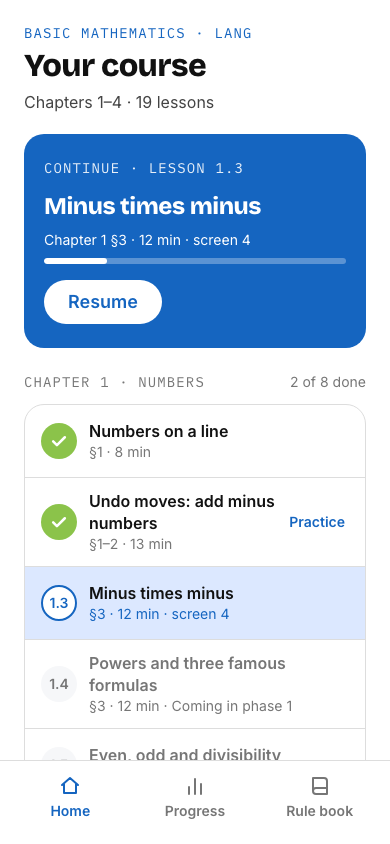
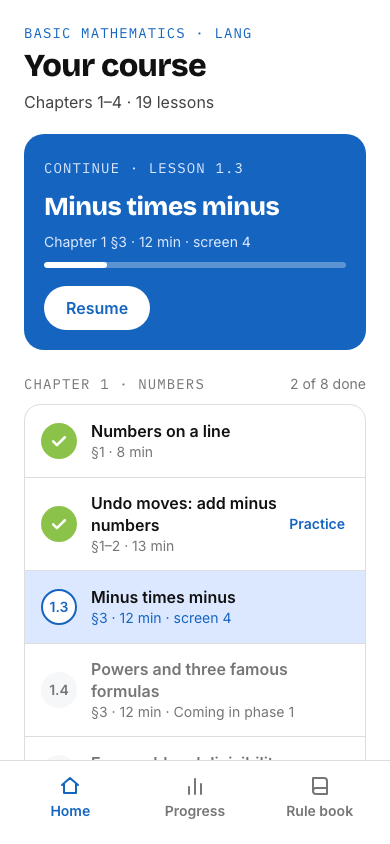
phase-1B: match measured FigCraft values on Home, Progress, Rule book
Radii, padding, gaps and type sizes read with get_node from H01-H03 and DH1-DH3.
diff.md rewritten with the measured results.

diff --git a/src/routes/app.module.css b/src/routes/app.module.css
@@ -21,12 +21,12 @@
   display: flex;
   flex-direction: column;
   border: 1.5px solid var(--color-line);
-  border-radius: var(--radius-lg);
+  border-radius: 16px;
   background: var(--color-paper);
   overflow: hidden;
 }
 .cardPad {
-  padding: 16px 20px;
+  padding: 16px;
   gap: var(--spacing-3);
 }
 .cardHead {
@@ -53,8 +53,8 @@
 .continue {
   display: flex;
   flex-direction: column;
-  gap: var(--spacing-2);
-  padding: 20px 20px 24px;
+  gap: 10px;
+  padding: 20px;
   border-radius: var(--radius-lg);
   background: var(--color-primary);
   color: #fff;
@@ -63,18 +63,19 @@
   font-family: var(--font-label);
   font-size: var(--text-caption);
   letter-spacing: var(--tracking-label);
-  opacity: 0.9;
+  color: var(--tint-primary);
 }
 .continueTitle {
   font-family: var(--font-display);
-  font-size: var(--text-h3);
-  line-height: 32px;
+  font-size: 26px;
+  line-height: 30px;
   font-weight: var(--font-weight-display);
   letter-spacing: var(--tracking-tight);
 }
 .continueMeta {
   font-size: var(--text-caption);
   line-height: 20px;
+  color: var(--tint-primary);
 }
 .track {
   height: 6px;
@@ -91,11 +92,11 @@
   align-self: flex-start;
   margin-top: var(--spacing-2);
   min-height: 44px;
-  padding: 12px 24px;
+  padding: 12px 22px;
   border-radius: var(--radius-pill);
   background: #fff;
   color: var(--color-primary);
-  font-size: var(--text-body);
+  font-size: var(--text-small);
   font-weight: var(--font-weight-semibold);
   line-height: 20px;
   text-decoration: none;
@@ -125,10 +126,10 @@
   display: flex;
   flex: 1;
   align-items: center;
-  gap: var(--spacing-3);
+  gap: 14px;
   min-width: 0;
   min-height: 72px;
-  padding: 12px 0 12px 16px;
+  padding: 14px 0 14px 16px;
   color: inherit;
   text-decoration: none;
 }
@@ -205,20 +206,21 @@
 .tiles {
   display: grid;
   grid-template-columns: 1fr 1fr;
-  gap: var(--spacing-3);
+  gap: 10px;
 }
 .tile {
   display: flex;
   flex-direction: column;
   gap: 2px;
-  padding: 16px;
-  border-radius: var(--radius-md);
+  padding: 14px 16px;
+  border-radius: 16px;
   background: var(--color-surface);
 }
 .tileValue {
   font-family: var(--font-display);
-  font-size: 28px;
-  line-height: 32px;
+  font-size: 30px;
+  line-height: 36px;
+  letter-spacing: var(--tracking-tight);
   font-weight: var(--font-weight-display);
 }
 .tileUnit {
@@ -289,12 +291,13 @@
   align-items: center;
   justify-content: center;
   min-width: 44px;
-  min-height: 44px;
-  padding: 0 20px;
+  min-height: 44px; /* frame: 40; NFR-02 asks 44 */
+  padding: 10px 14px;
+  font-size: var(--text-caption);
+  line-height: 20px;
   border-radius: var(--radius-pill);
   background: var(--tint-primary);
   color: var(--color-primary);
-  font-size: var(--text-small);
   font-weight: var(--font-weight-semibold);
   text-decoration: none;
 }
@@ -302,19 +305,25 @@
   display: flex;
   flex-direction: column;
   gap: 6px;
-  padding: 10px 0;
-  border-top: 1px solid var(--color-line);
 }
-.chapterRow:first-of-type {
-  border-top: 0;
+.chapterRows {
+  display: flex;
+  flex-direction: column;
+  gap: 14px;
 }
 .chapterLine {
   display: flex;
   justify-content: space-between;
-  font-size: var(--text-small);
-}
-.chapterLine strong {
+  font-size: 15px;
+  line-height: 20px;
   font-weight: var(--font-weight-semibold);
+  color: var(--color-ink-soft);
+}
+.chapterRow[data-started="true"] .chapterLine {
+  color: var(--color-ink);
+}
+.chapterLine .meta {
+  font-weight: var(--font-weight-regular);
 }
 .trackDark {
   height: 6px;
@@ -348,6 +357,10 @@
   .cols {
     flex-direction: row;
     align-items: flex-start;
+    gap: 32px;
+  }
+  .col {
+    gap: 24px;
   }
   .cols > .col {
     flex: 1;
@@ -375,7 +388,7 @@
     grid-template-columns: 1fr 1fr;
     grid-template-rows: auto auto 1fr;
     align-items: start;
-    gap: 20px 24px;
+    gap: 24px 32px;
   }
   .gTiles {
     grid-column: 1;

diff --git a/src/routes/RuleBook.module.css b/src/routes/RuleBook.module.css
@@ -8,12 +8,14 @@
 }
 .chip {
   flex: 0 0 auto;
-  min-height: 44px;
-  padding: 0 16px;
+  min-height: 44px; /* frame: 40; NFR-02 asks 44 */
+  padding: 10px 14px;
   border: 1.5px solid var(--color-line);
   border-radius: var(--radius-pill);
   background: var(--color-paper);
-  font-size: var(--text-small);
+  color: var(--color-ink-soft);
+  font-size: var(--text-caption);
+  line-height: 20px;
   font-weight: var(--font-weight-semibold);
   white-space: nowrap;
   cursor: pointer;
@@ -37,7 +39,7 @@
   gap: var(--spacing-2);
   padding: 16px;
   border: 1.5px solid var(--color-line);
-  border-radius: var(--radius-lg);
+  border-radius: 16px;
   background: var(--color-paper);
 }
 .head {
@@ -47,7 +49,7 @@
 }
 .id {
   flex: 0 0 auto;
-  padding: 2px 10px;
+  padding: 3px 8px;
   border-radius: var(--radius-sm);
   background: var(--tint-rule);
   color: var(--color-rule);
@@ -62,8 +64,8 @@
   font-weight: var(--font-weight-semibold);
 }
 .statement {
-  font-size: 20px;
-  line-height: 32px;
+  font-size: 21px;
+  line-height: 28px;
   overflow-x: auto;
 }
 .foot {

diff --git a/src/routes/Progress.tsx b/src/routes/Progress.tsx
@@ -140,15 +140,15 @@ export function Progress() {
         <div className={styles.gChapter}>
           <section className={`${styles.card} ${styles.cardPad}`} aria-label="By chapter">
             <p className={styles.eyebrow}>By chapter</p>
-            <div>
+            <div className={styles.chapterRows}>
               {[1, 2, 3, 4].map((c) => {
                 const ls = lessonsOfChapter(c);
                 const done = ls.filter((l) => data.lessons[l.id]?.state === "complete").length;
                 return (
-                  <div key={c} className={styles.chapterRow}>
+                  <div key={c} className={styles.chapterRow} data-started={done > 0}>
                     <div className={styles.chapterLine}>
                       <span>
-                        <strong>{c}</strong> · {CHAPTER_TITLES[c]}
+                        {c} · {CHAPTER_TITLES[c]}
                       </span>
                       <span className={styles.meta}>
                         {done} of {ls.length} lessons

diff --git a/src/routes/Home.tsx b/src/routes/Home.tsx
@@ -138,7 +138,7 @@ function ChapterList({
   const lessons = lessonsOfChapter(chapter);
   const done = lessons.filter((l) => data.lessons[l.id]?.state === "complete").length;
   return (
-    <section aria-label={`Chapter ${chapter}`} className={styles.col} style={{ gap: 12 }}>
+    <section aria-label={`Chapter ${chapter}`} className={styles.col} style={{ gap: 10 }}>
       <div className={styles.chapterHead}>
         <p className={styles.eyebrow}>
           Chapter {chapter} · {CHAPTER_TITLES[chapter]}

diff --git a/qa/phase-1/1B/diff.md b/qa/phase-1/1B/diff.md
@@ -2,7 +2,26 @@
 
 Screenshots: `qa/phase-1/1B/` (`home`, `progress`, `rules`, `coverage`, `settings`, `practice-overview`, `practice-problem`, `lesson-placeholder`; each at 390 and 1440 px).
 Home, Progress and Rule book are seeded with the sample state of the frames (lessons 1.1–1.2 done, 1.3 at screen 4, 11 rules, bank 1.2 10 of 12, 46 min). The seed is in `e2e/qa-1b.spec.ts`.
-Method: FigCraft screenshot of each frame next to the Playwright screenshot. I compared layout, order, type style and colour by eye. I did not measure every value with `get_node` in this step. Differences of 1–2 px are not listed.
+Method: FigCraft screenshot of each frame next to the Playwright screenshot, then every container and text value of H01–H03 and DH1–DH3 read with `get_node` (depth 5) and compared with the CSS. The first version of this file was by eye only and missed the differences below; they were fixed in a follow-up commit.
+
+## Measured and fixed (follow-up)
+
+| Area | Frame | Was | Now |
+| --- | --- | --- | --- |
+| Cards, lesson list, stat tiles, rule cards | radius 16 | 20 / 12 | 16 |
+| Continue card | gap 10, pad 20, title 26/30, label and meta `#DCE8FF`, Resume pad 12 22, 16px | gap 8, title 24/32, white at 90% | as frame |
+| Lesson rows | pad 14 16, gap 14 | 12 / 12 | as frame |
+| Chapter head to list | gap 10 | 12 | 10 |
+| Stat tiles | pad 14 16, gap 10, value 30/36 −2% | pad 16, 28/32 | as frame |
+| Cards (week, needs, chapters) | pad 16, gap 12 | pad 16 20 | pad 16 |
+| By chapter | gap 14, no dividers, names 15/20 semibold, idle chapters `#444` | dividers, 16px | as frame |
+| Practice pill | pad 10 14, 14/20 | pad 20, 16px | pad 10 14, 14/20 |
+| Rule chips | pad 10 14, 14/20 semibold, `#444` | pad 16, 16px | as frame |
+| Rule card | statement 21/28, id chip pad 3 8 | 20/32, pad 2 10 | as frame |
+| Desktop columns | gap 32, inner gap 24 | 20 | 32 / 24 |
+
+Deliberate deviation: the Practice pill and the rule filter chips are 44 px high (frame: 40 px) because NFR-02 asks for 44 × 44 px touch targets.
+Not measured: row title and meta fonts in the Home lesson rows and the DH1 side card (the dump was cut at depth 5). Checked by eye only.
 
 | Frame | Area | Difference | Status |
 | --- | --- | --- | --- |
@@ -14,7 +33,8 @@ Method: FigCraft screenshot of each frame next to the Playwright screenshot. I c
 | H02, DH2 | Settings link | The frame has no link to Settings. FR-07 asks for one at the end of Progress. The app adds a link row. | Accepted (FR-07) |
 | H02 | This week | Bars use the real Monday–Sunday week with today in blue. The frame sample has today = Saturday. Bar heights scale to the largest day (minimum 60 min). | Matches |
 | H03, DH3 | Rule card N2 | The frame shows only "a + (−a) = 0". `rules.json` has the full statement, which wraps to two lines on desktop. Content wins. | Accepted (content) |
-| H03, DH3 | Everything else | Header label "RULE BOOK", title "Your rules", subtitle, chips with counts, id chips, status badges, "Lesson 1.2 · Ch 1 §1". | Matches |
+| H03, DH3 | Rule order | Frame shows a sample order (N1, N2, Comm., N3 …). App uses the order of `rules.json`. | Accepted (content) |
+| H03, DH3 | Everything else | Header label "RULE BOOK", title "Your rules", subtitle, chips with counts, id chips, status badges, "Lesson 1.2 · Ch 1 §1". | Matches (measured) |
 | — | Coverage, Settings, Practice overview | No frame. Built from DESIGN-SYSTEM §6.4 with the card and row styles of H02. | n/a |
 | S11–S13 | Lesson and practice player | Layout follows DESIGN-SYSTEM §6.1 and §6.2. The lesson widgets are placeholders until step 1C, so the stage shows a dashed box with the widget name. Compared in 1C. | Pending 1C |
 | S12 | Not-quite sheet | Sheet uses the 1A component (with icon, NFR-03). "Try again" is the blue primary button, "Show me why" the blue outline (DECISIONS #9). | Matches decision |
